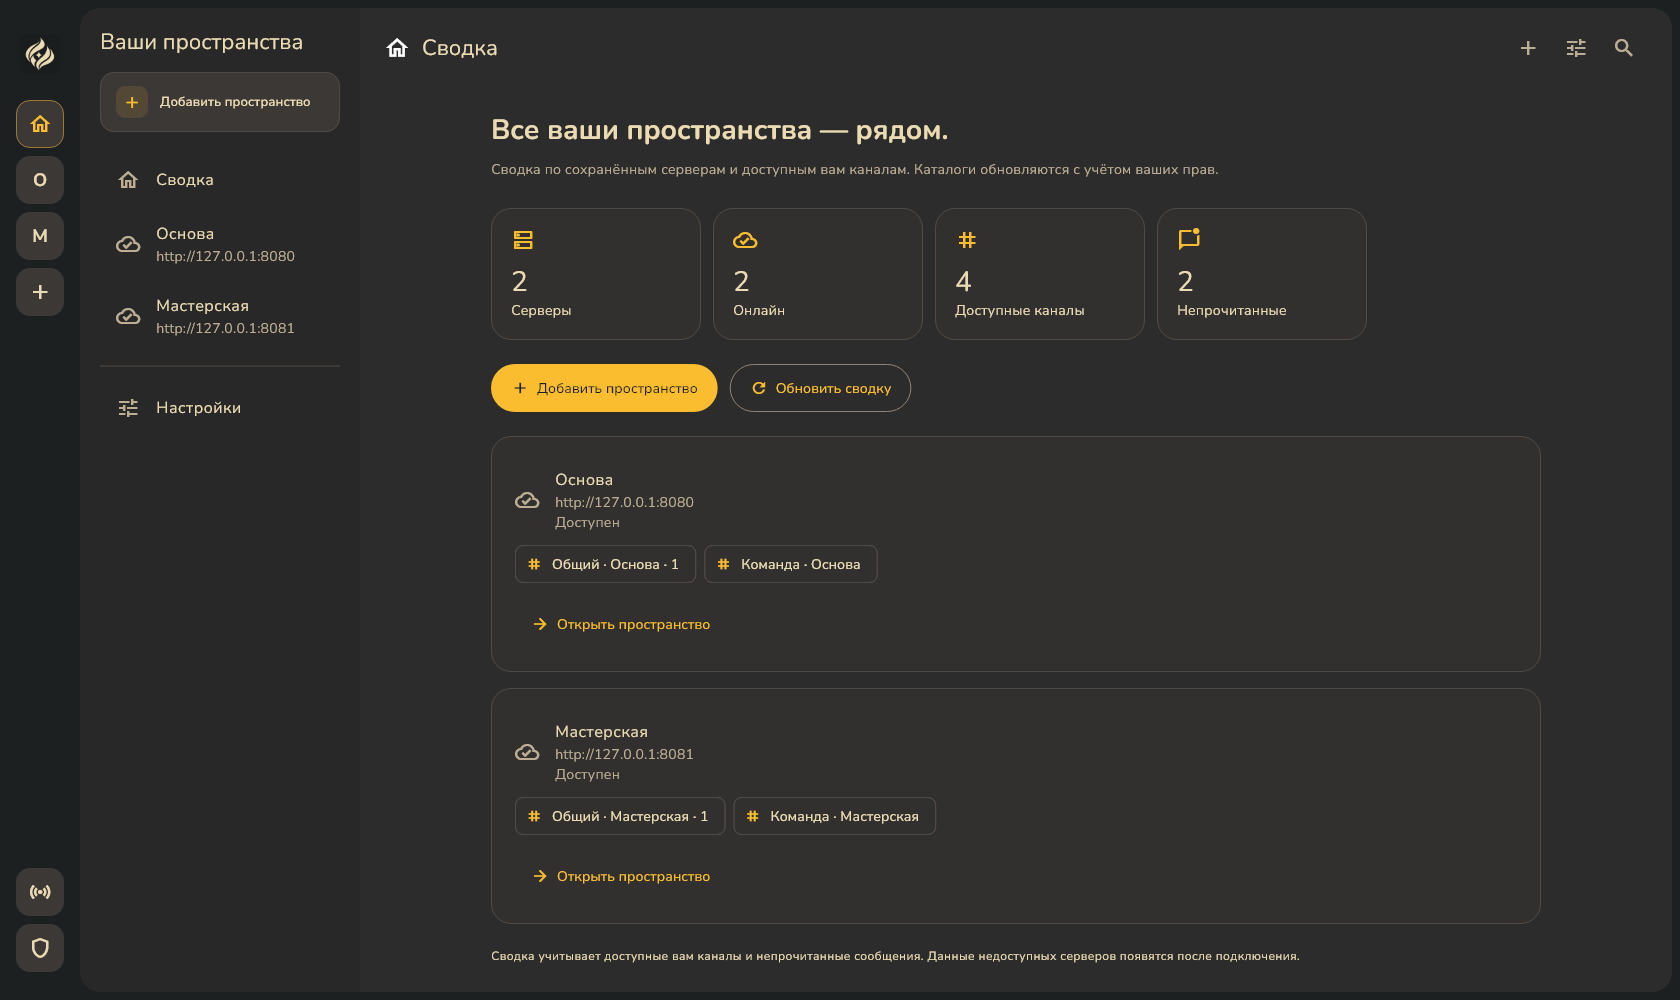
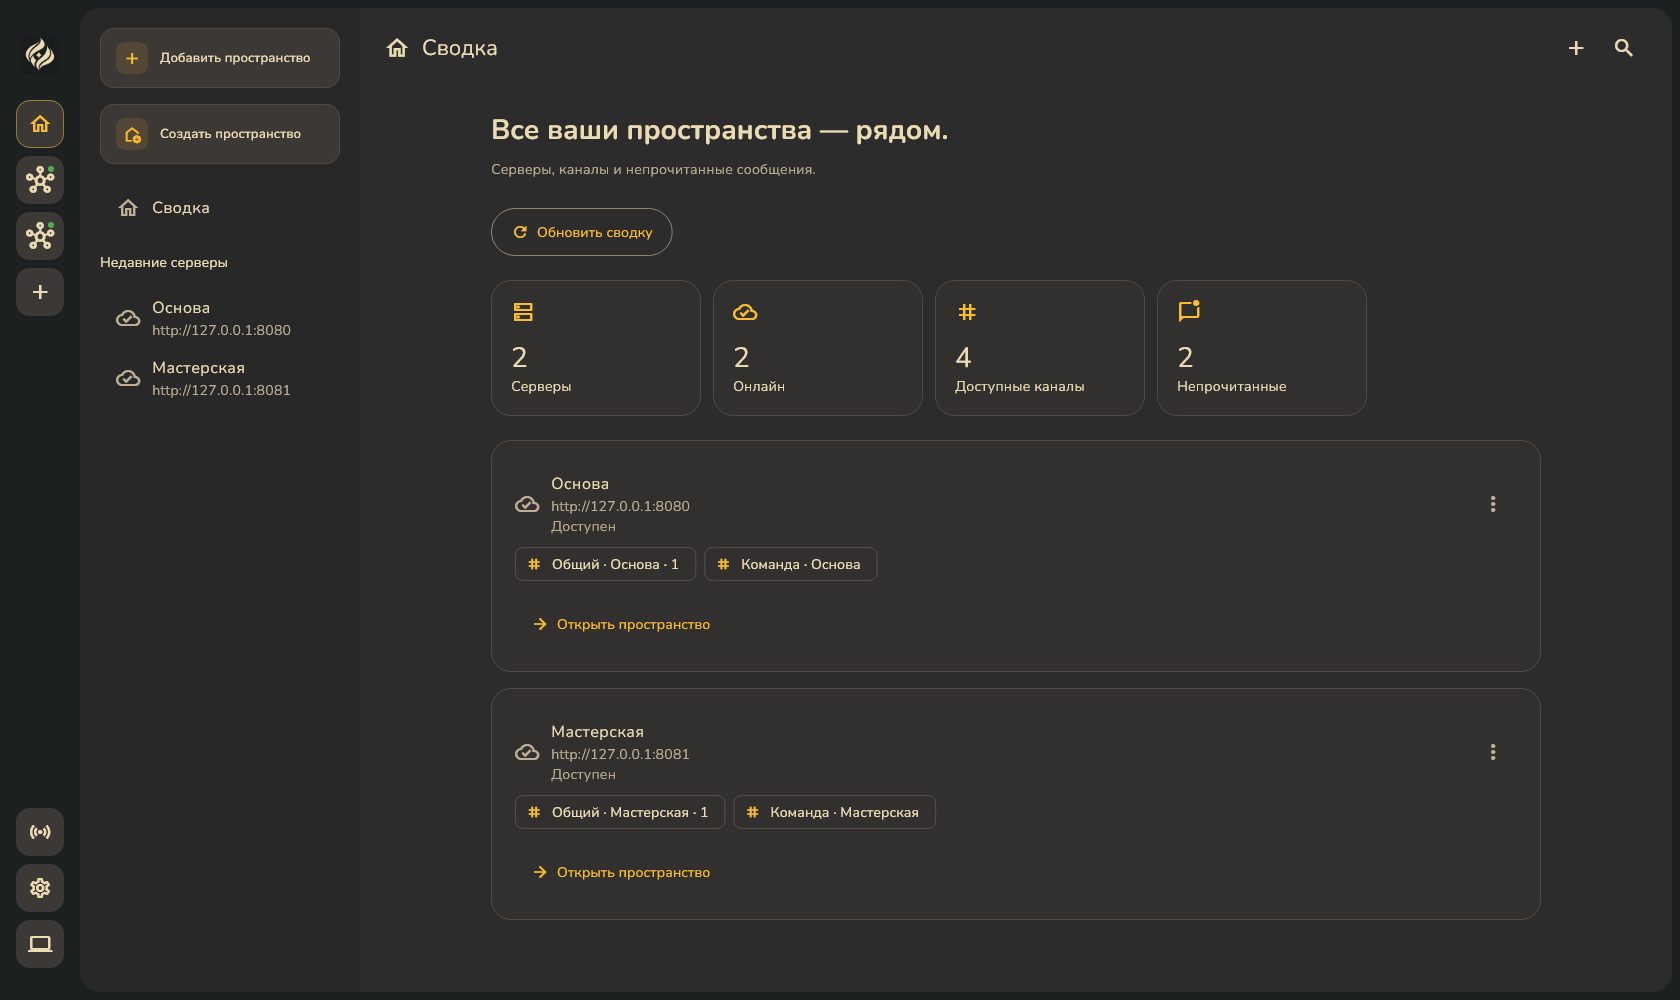
Обновить документацию и снимки интерфейса для v0.2.2

diff --git a/README.md b/README.md
@@ -15,7 +15,7 @@
 
 ![Главная приложения Space](docs/assets/guides/space-dashboard.png)
 
-Снимок реальных Flutter-виджетов с двумя демонстрационными серверами. Файлы, форум, лента и медиа ещё не представлены полноценным API; статистика этих ресурсов не выдумывается.
+Снимок Flutter-виджетов v0.2.2 с двумя демонстрационными серверами, обновлён 14 октября 2026 года. [Все десять экранов](docs/SCREENSHOTS.md). Файлы, форум, лента и медиа ещё не представлены полноценным API; статистика этих ресурсов не выдумывается.
 
 Чат, автоматическое обновление каналов и прав, непрочитанные сообщения, настройки, каналы/ACL, участники, приглашения, устройства, recovery-карточки и сопряжение. Локализация: русский, упрощённый китайский и английский для оболочки, обзора, поиска, личных настроек, основных элементов подключения, чата и домашнего запуска; настройки сервера, назначение владельца и выдача разрешения устройству также переведены. Каналы и редактор прав также переведены; смена языка сохраняет несохранённые названия и ACL. Участники, роли и блокировка также переведены; смена языка сохраняет поиск и несохранённые изменения. Приглашения также переведены: создание, срок, число использований, копирование и отзыв. Устройства, разрешения и отзыв доступа также переведены. Общие формы восстановления, сопряжения, смены ключа и QR-камеры также переведены. Сообщения операций и подтверждения восстановления, сопряжения и смены ключа также переведены. Низкоуровневые ошибки криптографии, запуска и сервера пока требуют отдельного перевода.
 
@@ -23,9 +23,9 @@
 
 ## Разработка
 
-![Обновлённый Flutter-интерфейс](docs/assets/guides/space-bubble-design.png)
+![Обновлённый Flutter-интерфейс](docs/assets/screens-v0.2.2/chat.png)
 
-Оболочка по согласованному концепту: кнопки пространств без фоновой панели, скруглённый слева список каналов с прямым стыком чата, компактная карточка справа и входящие/исходящие пузырьки. Снимок получен из настоящих Flutter-виджетов с демонстрационными данными, а не из работающего сообщества. Палитры, логотип и локальные шрифты сохранены. Время и статусы доставки не рисуются: их ещё нет в контракте сообщений.
+Оболочка по согласованному концепту: кнопки пространств без фоновой панели, скруглённый слева список каналов с прямым стыком чата, компактная карточка справа и входящие/исходящие пузырьки. Снимок получен из настоящих Flutter-виджетов с демонстрационными данными, а не из работающего сообщества. Палитры, логотип и локальные шрифты сохранены. Снимок иллюстрирует интерфейс с демонстрационным разговором.
 
 Flutter 3.47.6 / Dart 3.13.5. Из каталога `client`:
 
@@ -40,9 +40,17 @@ flutter test --no-pub
 
 ## Публикация
 
-Первый публичный экспериментальный выпуск: [v0.1.0](https://github.com/space-protocol-project/space-app/releases/tag/v0.1.0). В приложение включены закреплённые SHA-256 архивов [сервера v0.1.0](https://github.com/space-protocol-project/space-server/releases/tag/v0.1.0).
+Текущий экспериментальный выпуск — [v0.2.2](https://github.com/space-protocol-project/space-app/releases/latest), опубликован 14 октября 2026 года. В приложении закреплён [домашний runtime v0.2.2](https://github.com/space-protocol-project/space-server/releases/tag/v0.2.2).
 
-Проверки: 55 Flutter-тестов, анализ без замечаний, локальная Windows release-сборка и запуск с hot reload без ошибок. CI [38066040895](https://github.com/space-protocol-project/space-app/actions/runs/38066040895) собрал и опубликовал три установщика. CI [38067026461](https://github.com/space-protocol-project/space-app/actions/runs/38067026461) проверил реальную загрузку публичного архива, установку и два запуска с прежними владельцем, server ID, сертификатом и ссылкой на трёх платформах. Повторная загрузка при втором запуске запрещалась тестом; сценарий прошёл.
+| Система | Скачать последнюю версию |
+| --- | --- |
+| Windows 10/11 x64 | [Установщик EXE](https://github.com/space-protocol-project/space-app/releases/latest/download/Space-Setup-windows-x64.exe) |
+| macOS Apple Silicon | [Образ DMG](https://github.com/space-protocol-project/space-app/releases/latest/download/Space-macos-arm64.dmg) |
+| Linux x64 | [Установщик RUN](https://github.com/space-protocol-project/space-app/releases/latest/download/Space-linux-x64.run) |
+
+[SHA-256 установщиков](https://github.com/space-protocol-project/space-app/releases/latest/download/SHA256SUMS.txt). Ссылки автоматически ведут на последний публичный выпуск. Ключи подписи для обновлений не требуются; загрузка проверяется по размеру и SHA-256. В установленной Windows-копии приложение запускает установщик и перезапускается после обновления. [Как обновить](docs/APP-UPDATES.md), [как восстановить домашний сервер](docs/HOME-RECOVERY.md).
+
+[CI выпуска клиента](https://github.com/space-protocol-project/space-app/actions/runs/38483265549) проверил сборки трёх ОС, системный vault Windows и установку поверх v0.2.1 с сохранением данных и перезапуском. [CI runtime](https://github.com/space-protocol-project/space-server/actions/runs/38482588850) проверил обновление и восстановление реальной PostgreSQL на трёх ОС. Локальные проверки кода перед выпуском: 213 тестов Flutter, четыре штатных пропуска, анализ и Windows release.
 
 Тег `vX.Y.Z` запускает проверки и сборку Windows Setup, macOS DMG и Linux RUN. CI публикует выпуск только после успешных сборок и проверок; описание берётся из одноимённого раздела [Changelog.md](Changelog.md), вместе с установщиками публикуется SHA-256. [Подробности](packaging/README.md).
 

diff --git a/client/README.md b/client/README.md
@@ -4,11 +4,11 @@
 
 ## Установщики и язык
 
-Windows Setup, macOS DMG и Linux RUN доступны в артефактах workflow «Установщики приложения» в GitHub Actions. [Форматы, ограничения и SHA-256](../packaging/README.md). Установщики содержат приложение; домашний сервер пока устанавливается отдельно. DMG пока без подписи Apple и notarization.
+Установщики доступны в [последнем публичном выпуске](https://github.com/space-protocol-project/space-app/releases/latest): [Windows x64](https://github.com/space-protocol-project/space-app/releases/latest/download/Space-Setup-windows-x64.exe), [macOS Apple Silicon](https://github.com/space-protocol-project/space-app/releases/latest/download/Space-macos-arm64.dmg), [Linux x64](https://github.com/space-protocol-project/space-app/releases/latest/download/Space-linux-x64.run). [Форматы, ограничения и SHA-256](../packaging/README.md). Домашний runtime v0.2.2 устанавливается из приложения по подтверждению владельца. DMG пока без подписи Apple и notarization.
 
 В «Настройках» можно выбрать русский, упрощённый китайский или английский. Выбор сохраняется на устройстве; по умолчанию используется русский. Переведены оболочка, навигация, обзор, поиск, личные настройки, основные элементы подключения, чата и домашнего запуска. Переключение языка сохраняет черновик; названия каналов и сообщения пользователей остаются в исходном виде. Управление сервером, recovery/pairing и сообщения ошибок ещё предстоит перенести. Полный перевод приложения пока не заявляется. ARB-ресурсы находятся в `lib/l10n`, генерация: `flutter gen-l10n`.
 
-Срез подключения и чата в main проверен 59 Flutter-тестами, анализом без замечаний, локальной Windows release-сборкой и hot reload без ошибок. [CI 38070228160](https://github.com/space-protocol-project/space-app/actions/runs/38070228160) успешно собрал установщики Windows/macOS/Linux. Он пока находится в разделе Unreleased; опубликованный `v0.1.0` не заменялся.
+Приложение v0.2.2 опубликовано 14 октября 2026 года. [CI выпуска](https://github.com/space-protocol-project/space-app/actions/runs/38483265549) прошёл на трёх ОС, включая реальное обновление Windows с v0.2.1, сохранение настроек/vault/домашнего контрольного файла и перезапуск. [Актуальные снимки интерфейса](../docs/SCREENSHOTS.md), [обновление](../docs/APP-UPDATES.md), [восстановление сервера](../docs/HOME-RECOVERY.md).
 
 Проверка этого среза: 50 Flutter-тестов, анализ без замечаний, локальная Windows release-сборка. Три установщика успешно пересобраны в [GitHub Actions, run 38004108325](https://github.com/space-protocol-project/space-protocol/actions/runs/38004108325) для коммита `8047fc0`. Автоматические тесты проверяют три языка, широкое/узкое окно, смену языка через меню и сохранение после загрузки настроек. Качество китайских переводов и отображение символов на физических системах ещё требуют ручной проверки.
 

diff --git a/docs/SCREENSHOTS.md b/docs/SCREENSHOTS.md
@@ -1,0 +1,46 @@
+# Интерфейс Space v0.2.2
+
+Снимки обновлены 14 октября 2026 года. Они получены рендерингом текущих Flutter-виджетов с демонстрационными данными. Сводка и чат сняты в основной оболочке, остальные экраны — в изолированной тестовой оболочке общих форм. Настоящие ключи, приглашения и пользовательские сообщения не использованы.
+
+[Скачать приложение](https://github.com/space-protocol-project/space-app/releases/latest) · [Руководство](APPLICATION-GUIDE.md) · [Обновление](APP-UPDATES.md)
+
+## Сводка
+
+![Сводка](assets/screens-v0.2.2/dashboard.png)
+
+## Чат
+
+![Чат](assets/screens-v0.2.2/chat.png)
+
+## Настройки и обновления
+
+![Настройки и обновления](assets/screens-v0.2.2/settings.png)
+
+## Защита карточки восстановления
+
+![Защита карточки восстановления](assets/screens-v0.2.2/identity.png)
+
+## Каналы и права
+
+![Каналы и права](assets/screens-v0.2.2/channels.png)
+
+## Участники
+
+![Участники](assets/screens-v0.2.2/members.png)
+
+## Приглашения
+
+![Приглашения](assets/screens-v0.2.2/invites.png)
+
+## Устройства
+
+![Устройства](assets/screens-v0.2.2/devices.png)
+
+## Домашний сервер
+
+![Домашний сервер](assets/screens-v0.2.2/home.png)
+
+## Сопряжение
+
+![Сопряжение](assets/screens-v0.2.2/pairing.png)
+

diff --git a/docs/APP-UPDATES.md b/docs/APP-UPDATES.md
@@ -1,5 +1,7 @@
 # Простое обновление приложения
 
+Опубликовано в [v0.2.2](https://github.com/space-protocol-project/space-app/releases/latest). [CI выпуска](https://github.com/space-protocol-project/space-app/actions/runs/38483265549) проверил установку Windows поверх v0.2.1 и перезапуск. [Скачать последнюю версию](../README.md#публикация).
+
 Обновления проверяются при запуске и в настройках. Приложение получает выпуск
 из `space-protocol-project/space-app`, выбирает пакет для своей ОС/архитектуры
 и загружает его с процентами и докачкой. Обязательны размер и SHA-256 из
